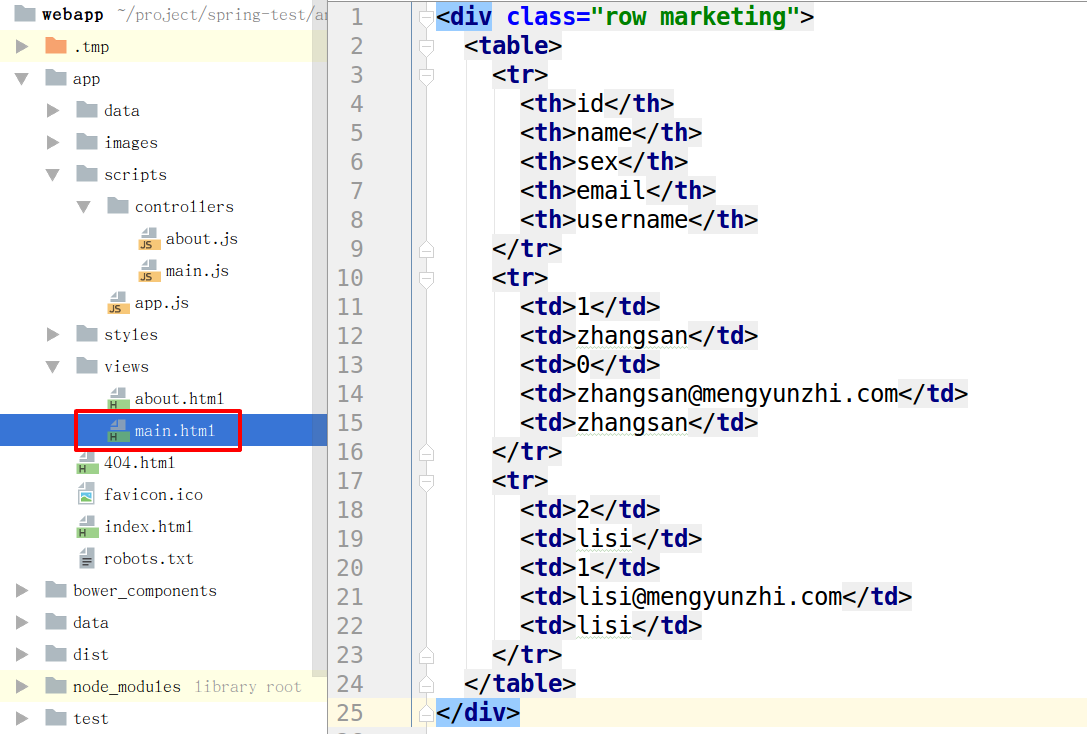
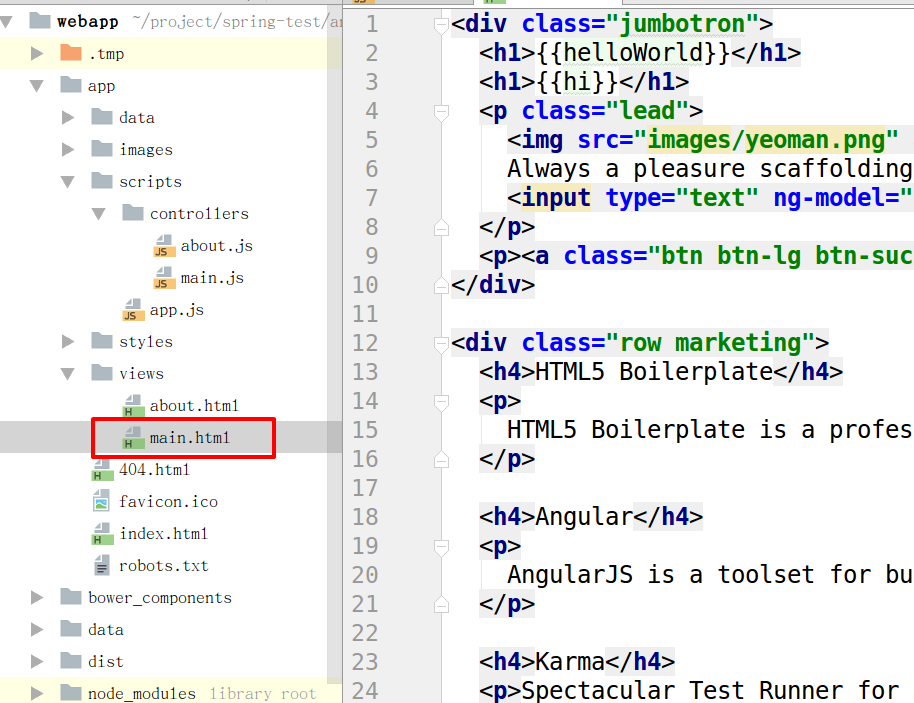
修改截图

Changed region(s): [[0.0, 0.0, 1.0, 1.0]]

diff --git a/3-teacher/2-read/2-webapp-view/readme.md b/3-teacher/2-read/2-webapp-view/readme.md
@@ -4,7 +4,9 @@
 
 ## main.html
 
-删除其中所有代码，然后将下面的代码写进去。
+![main.html](image/2017-10-28.2.png)
+
+打开 `main.html`, 删除其中所有代码，然后将下面的代码写进去。
 
 ```html
 <div class="row marketing">
